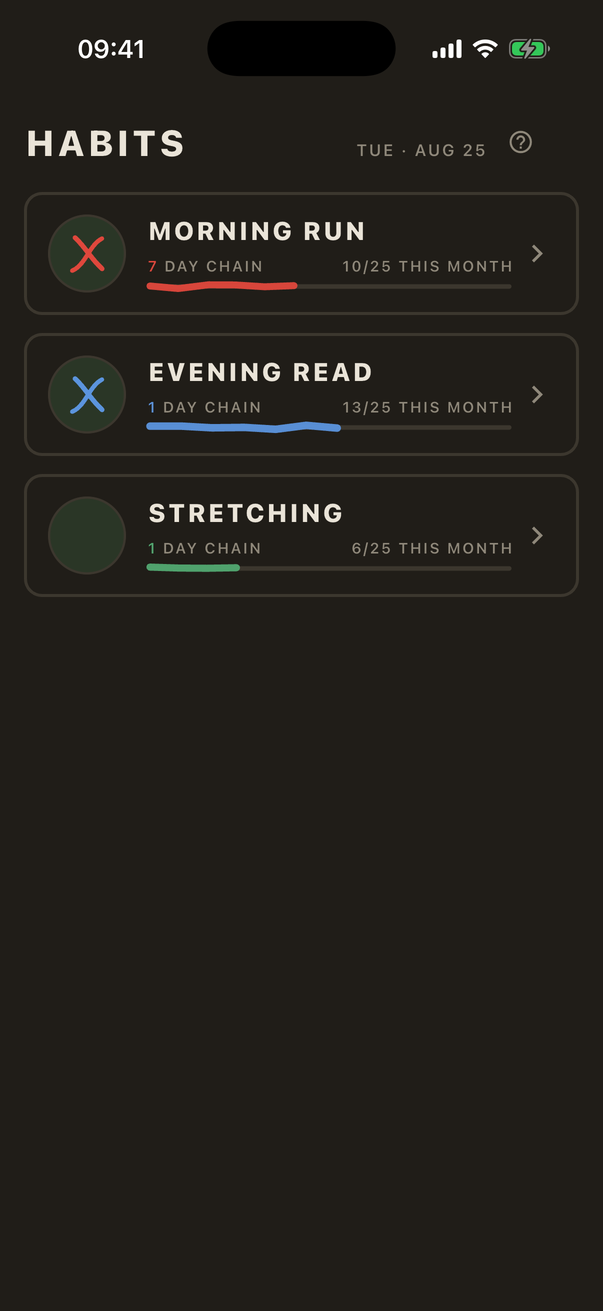
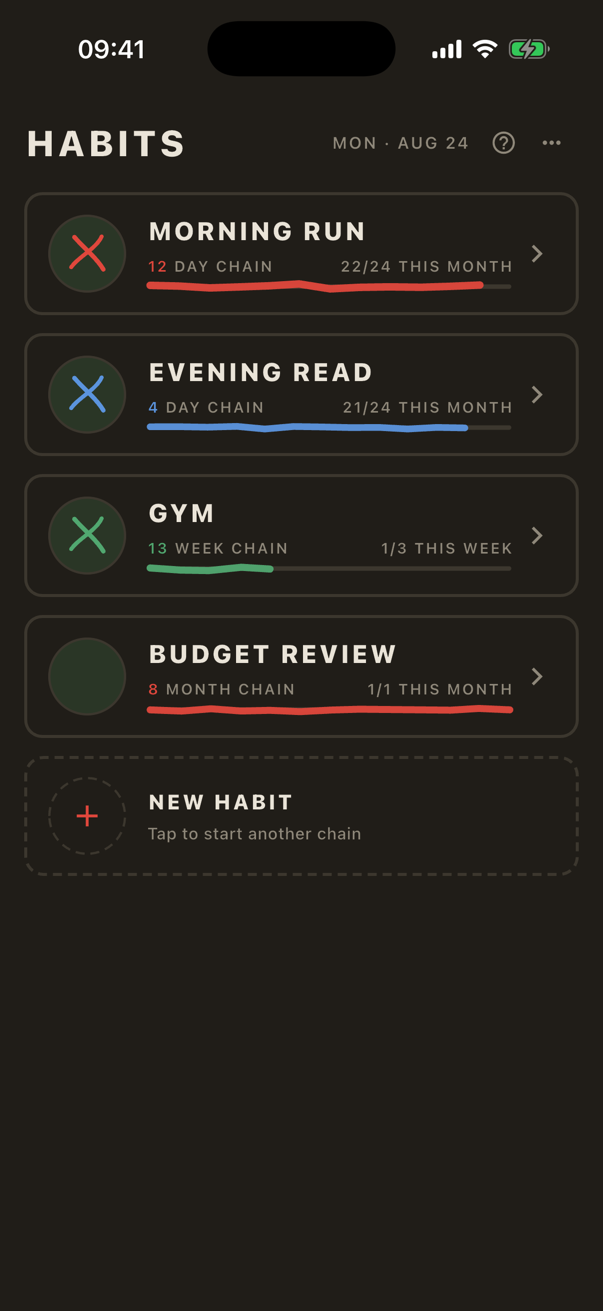
Landing: show weekly and monthly goals
New iOS screenshots from the store fixture: the habits list now has a
3× a week and a once-a-month habit, and a fourth screen shows the 3× a
week month view with its check marks. Tagline and meta description
mention goals.

diff --git a/index.html b/index.html
@@ -7,7 +7,7 @@
   <link rel="icon" type="image/png" sizes="512x512" href="/icon-512.png">
   <link rel="apple-touch-icon" sizes="180x180" href="/apple-touch-icon.png">
   <title>Exfield – Habit Calendar</title>
-  <meta name="description" content="Don't break the chain. A wall-calendar habit tracker for iOS and Android: one red X per day, your chain and record, the whole year at a glance — all data on your device.">
+  <meta name="description" content="Don't break the chain. A wall-calendar habit tracker for iOS and Android: one red X per day, or a goal like 3× a week or once a month. Your chain and record, the whole year at a glance — all data on your device.">
   <style>
     :root {
       --paper: #FAF6EF;
@@ -107,7 +107,8 @@
     </svg>
     <h1>Exfield</h1>
     <p class="tag">Don't break the chain. A wall-calendar habit tracker —
-      one red X per day, all data on your device.</p>
+      one red X per day, or 3× a week, or once a month. All data on
+      your device.</p>
     <a class="store" href="https://apps.apple.com/app/exfield-habit-calendar/id6805454452">
       <picture>
         <source srcset="img/app-store-badge-white.svg" media="(prefers-color-scheme: dark)">
@@ -120,7 +121,7 @@
     <figure>
       <picture>
         <source srcset="img/home-dark.png" media="(prefers-color-scheme: dark)">
-        <img src="img/home-light.png" width="603" height="1311" alt="The habits list: three habits, each with today's X circle, its chain length and this month's progress stroke.">
+        <img src="img/home-light.png" width="603" height="1311" alt="The habits list: two daily habits, a 3× a week gym habit on a 13-week chain and a once-a-month budget review on an 8-month chain, each with today's X circle and its progress stroke.">
       </picture>
       <figcaption>One tap. One red X.</figcaption>
     </figure>
@@ -130,6 +131,13 @@
         <img src="img/calendar-light.png" width="603" height="1311" alt="A habit's wall calendar for August with a 16-day chain of red X-es, plus current chain, record chain and month and year progress.">
       </picture>
       <figcaption>Your chain, your record.</figcaption>
+    </figure>
+    <figure>
+      <picture>
+        <source srcset="img/goal-month-dark.png" media="(prefers-color-scheme: dark)">
+        <img src="img/goal-month-light.png" width="603" height="1311" alt="A 3× a week gym habit for August: Monday, Wednesday and Friday X-es, a check mark beside every week that met the goal, 1/3 for the current week, and a 13-week chain.">
+      </picture>
+      <figcaption>Daily, weekly or monthly.</figcaption>
     </figure>
     <figure>
       <picture>
